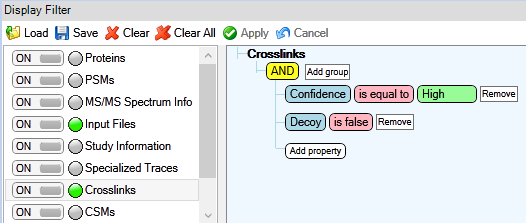
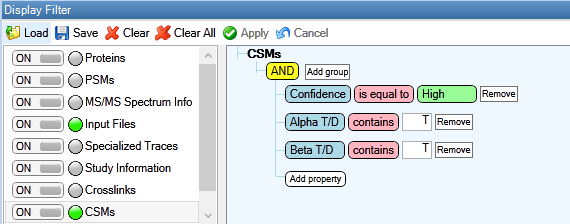
update documentation

diff --git a/README.md b/README.md
@@ -16,11 +16,11 @@ Generate a spectral library for [Spectronaut](https://biognosys.com/software/spe
 
 ## Exporting MS Annika results to Microsoft Excel
 
-The script uses a Micrsoft Excel files as input, for that MS Annika results need to be exported from Proteome Discoverer. It is recommended to first filter results according to your needs, e.g. filter for high-confidence crosslinks and filter out decoy crosslinks as depicted below.
+The script uses a Micrsoft Excel files as input, for that MS Annika results need to be exported from Proteome Discoverer. It is recommended to first filter results according to your needs, e.g. filter for high-confidence CSMs and filter out decoy CSMs as depicted below.
 
 ![PDFilter](filter.png)
 
-Results can then be exported by selecting `File > Export > To Microsoft Excel… > Level 1: Crosslinks > Export` in Proteome Discoverer.
+Results can then be exported by selecting `File > Export > To Microsoft Excel… > Level 1: CSMs > Export` in Proteome Discoverer.
 
 ## Parameters
 
@@ -30,7 +30,36 @@ The following parameters need to be adjusted for your needs in the `config.py` f
 ##### PARAMETERS #####
 
 # name of the mgf file containing the MS2 spectra
-SPECTRA_FILE = "20220215_Eclipse_LC6_PepMap50cm-cartridge_mainlib_DSSO_3CV_stepHCD_OT_001.mgf"
+SPECTRA_FILE = ["20220215_Eclipse_LC6_PepMap50cm-cartridge_mainlib_DSSO_3CV_stepHCD_OT_001.mgf"]
+# name of the CSM file exported from Proteome Discoverer
+CSMS_FILE = "20220215_Eclipse_LC6_PepMap50cm-cartridge_mainlib_DSSO_3CV_stepHCD_OT_001.xlsx"
+# name of the experiment / run (any descriptive text is allowed)
+RUN_NAME = "20220215_Eclipse_LC6_PepMap50cm-cartridge_mainlib_DSSO_3CV_stepHCD_OT_001-(1)"
+# name of the crosslink modification
+CROSSLINKER = "DSSO"
+# possible modifications and their monoisotopic masses
+MODIFICATIONS = \
+    {"Oxidation": [15.994915],
+     "Carbamidomethyl": [57.021464],
+     "DSSO": [54.01056, 85.98264, 103.99320]}
+# expected ion types (any of a, b, c, x, y, z)
+ION_TYPES = ("b", "y")
+# maximum expected charge of fragment ions
+MAX_CHARGE = 4
+# tolerance for matching peaks
+MATCH_TOLERANCE = 0.02
+# parameters for calculating iRT
+iRT_PARAMS = {"iRT_m": 1.3066, "iRT_t": 29.502}
+```
+
+In case you have more than one `SPECTRA_FILE` you can specify that like this:
+
+```python
+##### PARAMETERS #####
+
+# name of the mgf file containing the MS2 spectra
+SPECTRA_FILE = ["20220215_Eclipse_LC6_PepMap50cm-cartridge_mainlib_DSSO_3CV_stepHCD_OT_001.mgf",
+                "20220215_Eclipse_LC6_PepMap50cm-cartridge_mainlib_DSSO_3CV_stepHCD_OT_002.mgf"]
 # name of the CSM file exported from Proteome Discoverer
 CSMS_FILE = "20220215_Eclipse_LC6_PepMap50cm-cartridge_mainlib_DSSO_3CV_stepHCD_OT_001.xlsx"
 # name of the experiment / run (any descriptive text is allowed)
